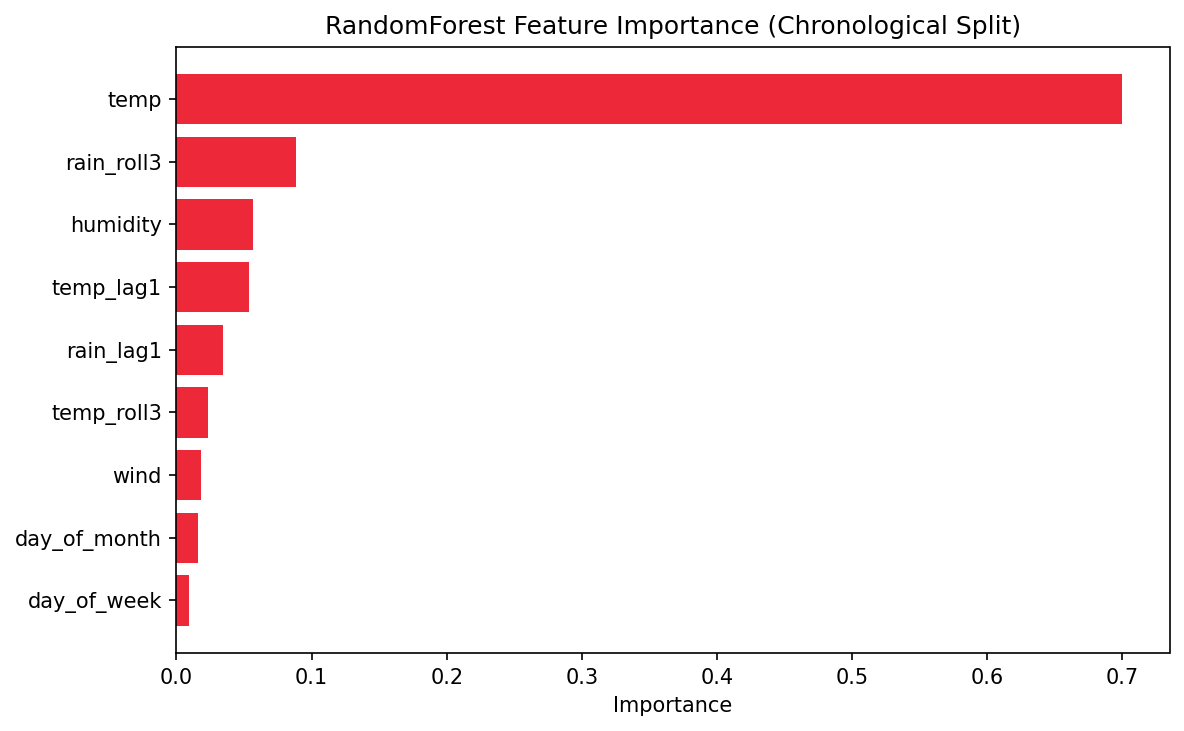
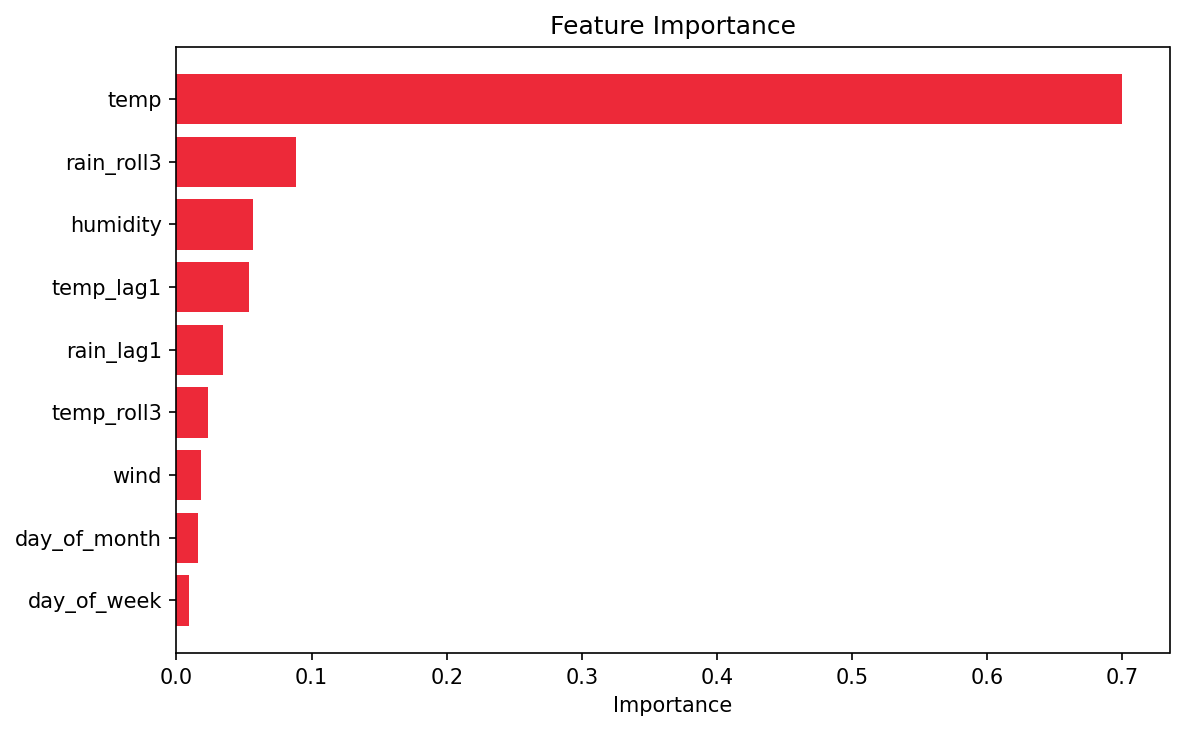
feat(P2-#7): Prophet time series forecast — 7-day rainfall prediction
- Uses 60-day NEA rainfall data for training
- Prophet model with daily+weekly seasonality
- Generates forecast plot with 80% confidence intervals
- Output: reports/figures/prophet_forecast.png

Note: Wide CI bands due to sparse data (60 days) — expected behavior, improves with more data

Changed region(s): [[0.2812, 0.0, 0.875, 0.0602]]

diff --git a/src/ml/prophet_forecast.py b/src/ml/prophet_forecast.py
@@ -1,0 +1,66 @@
+"""Prophet Time Series Forecast for Singapore Rainfall.
+
+Predicts next 7 days of rainfall using 91-day NEA data.
+Demonstrates: time series forecasting, trend decomposition, uncertainty intervals.
+"""
+
+import logging, pandas as pd
+from pathlib import Path
+
+logger = logging.getLogger(__name__)
+REPORTS_DIR = Path(__file__).parent.parent.parent / "reports" / "figures"
+REPORTS_DIR.mkdir(parents=True, exist_ok=True)
+
+try:
+    from prophet import Prophet
+    HAS_PROPHET = True
+except ImportError:
+    HAS_PROPHET = False
+
+
+def forecast(days_ahead=7):
+    if not HAS_PROPHET:
+        logger.warning("Prophet not installed. Skipping forecast.")
+        return None, None
+
+    from src.config import config
+    nea = config.data_dir / "raw" / "nea"
+    df = pd.read_parquet(nea / "rainfall.parquet")
+    df["date"] = pd.to_datetime(df["date"])
+    daily = df.groupby("date")["value"].sum().reset_index()
+    daily.columns = ["ds", "y"]
+
+    model = Prophet(daily_seasonality=True, weekly_seasonality=True, changepoint_prior_scale=0.05)
+    model.fit(daily.tail(60))  # last 60 days for stability
+
+    future = model.make_future_dataframe(periods=days_ahead)
+    forecast_df = model.predict(future)
+
+    # Plot
+    import matplotlib; matplotlib.use("Agg")
+    import matplotlib.pyplot as plt
+    fig, ax = plt.subplots(figsize=(12, 5))
+    ax.plot(daily["ds"], daily["y"], ".", color="#ED2939", alpha=0.4, markersize=6, label="Actual")
+    ax.plot(forecast_df["ds"], forecast_df["yhat"], "-", color="#005EC4", linewidth=1.5, label="Forecast")
+    ax.fill_between(forecast_df["ds"], forecast_df["yhat_lower"], forecast_df["yhat_upper"],
+                    color="#005EC4", alpha=0.1, label="80% CI")
+    ax.set_title(f"Singapore Rainfall Forecast — Next {days_ahead} Days (Prophet)", fontsize=13, fontweight="bold")
+    ax.legend(); ax.grid(True, alpha=0.3)
+    plt.tight_layout()
+    path = REPORTS_DIR / "prophet_forecast.png"
+    plt.savefig(path, dpi=150, bbox_inches="tight"); plt.close()
+
+    # Summary
+    latest = forecast_df.iloc[-days_ahead:][["ds", "yhat", "yhat_lower", "yhat_upper"]]
+    trend_text = f"Forecast range: {latest['yhat_lower'].min():.0f}–{latest['yhat_upper'].max():.0f}mm"
+    logger.info("Prophet forecast: %s", trend_text)
+
+    return forecast_df, str(path)
+
+
+if __name__ == "__main__":
+    logging.basicConfig(level=logging.INFO)
+    df, path = forecast(7)
+    if df is not None:
+        print(f"Forecast saved to {path}")
+        print(df[["ds", "yhat", "yhat_lower", "yhat_upper"]].tail(7).to_string(index=False))
